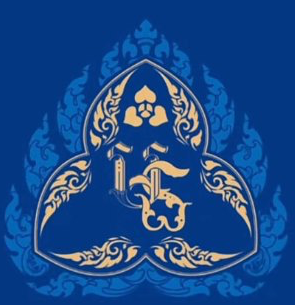
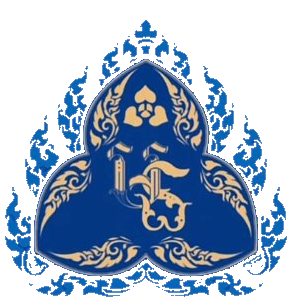
Apply seamless transparent crest, update frame on all sections, and bump version to v16

diff --git a/index.html b/index.html
@@ -20,7 +20,7 @@
     <!-- Auto-apply latest version across all URLs without manual ?v= -->
     <script>
         (function() {
-            var v = '15';
+            var v = '16';
             try {
                 var url = new URL(window.location.href);
                 if (url.searchParams.get('v') !== v && url.hostname.indexOf('github.io') !== -1) {
@@ -31,8 +31,8 @@
         })();
     </script>
 
-    <link rel="preload" as="image" href="assets/royal-blue-gold-frame.jpg?v=15">
-    <link rel="preload" as="image" href="assets/royal-crest-blue.png?v=15">
+    <link rel="preload" as="image" href="assets/royal-blue-gold-frame.jpg?v=16">
+    <link rel="preload" as="image" href="assets/royal-crest-blue.png?v=16">
     <!-- Tailwind CSS -->
     <script src="https://cdn.tailwindcss.com"></script>
     
@@ -85,7 +85,7 @@
 
         body {
             background-color: #020D22;
-            background-image: url('assets/royal-blue-gold-frame.jpg?v=15');
+            background-image: url('assets/royal-blue-gold-frame.jpg?v=16');
             background-position: center center;
             background-size: cover;
             background-attachment: fixed;
@@ -105,7 +105,7 @@
             margin: 0 auto;
             min-height: 100vh;
             background-color: #020D22;
-            background-image: url('assets/royal-blue-gold-frame.jpg?v=15');
+            background-image: url('assets/royal-blue-gold-frame.jpg?v=16');
             background-repeat: no-repeat;
             background-size: cover;
             background-position: center top;
@@ -194,7 +194,7 @@
             transform: translateX(-50%);
             overflow: hidden;
             background-color: #020D22;
-            background-image: url('assets/royal-blue-gold-frame.jpg?v=15');
+            background-image: url('assets/royal-blue-gold-frame.jpg?v=16');
             background-repeat: no-repeat;
             background-size: 100% 100%;
             background-position: center center;
@@ -244,7 +244,7 @@
             z-index: 10;
             overflow: hidden;
             background-color: #020D22 !important;
-            background-image: url('assets/royal-blue-gold-frame.jpg?v=15') !important;
+            background-image: url('assets/royal-blue-gold-frame.jpg?v=16') !important;
             background-repeat: no-repeat !important;
             background-size: 100% 100% !important;
             background-position: center center !important;
@@ -258,7 +258,7 @@
             padding-top: 115px !important;
             padding-bottom: 80px !important;
             background-color: #020D22 !important;
-            background-image: url('assets/royal-blue-gold-frame.jpg?v=15') !important;
+            background-image: url('assets/royal-blue-gold-frame.jpg?v=16') !important;
             background-repeat: no-repeat !important;
             background-size: 100% 100% !important;
             background-position: center center !important;
@@ -401,7 +401,7 @@
         /* Khmer kbach ornaments */
         section h2.font-title::after {
             content: ''; display: block; width: 210px; height: 26px; margin: 8px auto 0;
-            background: url('assets/kbach-divider-gold.svg?v=15') center / contain no-repeat;
+            background: url('assets/kbach-divider-gold.svg?v=16') center / contain no-repeat;
         }
 
         /* Scrollbar */
@@ -427,7 +427,7 @@
 
                 <!-- Royal 3D Gold Monogram Crest Emblem matching Reference Screenshot -->
                 <div class="my-2">
-                    <img src="assets/royal-crest-blue.png?v=15" alt="Royal Monogram" class="w-44 h-44 mx-auto drop-shadow-[0_12px_28px_rgba(0,0,0,0.85)]">
+                    <img src="assets/royal-crest-blue.png?v=16" alt="Royal Monogram" class="w-44 h-44 mx-auto drop-shadow-[0_12px_28px_rgba(0,0,0,0.85)]">
                 </div>
 
                 <!-- Greeting & Guest Name with Luminescent Glow -->
